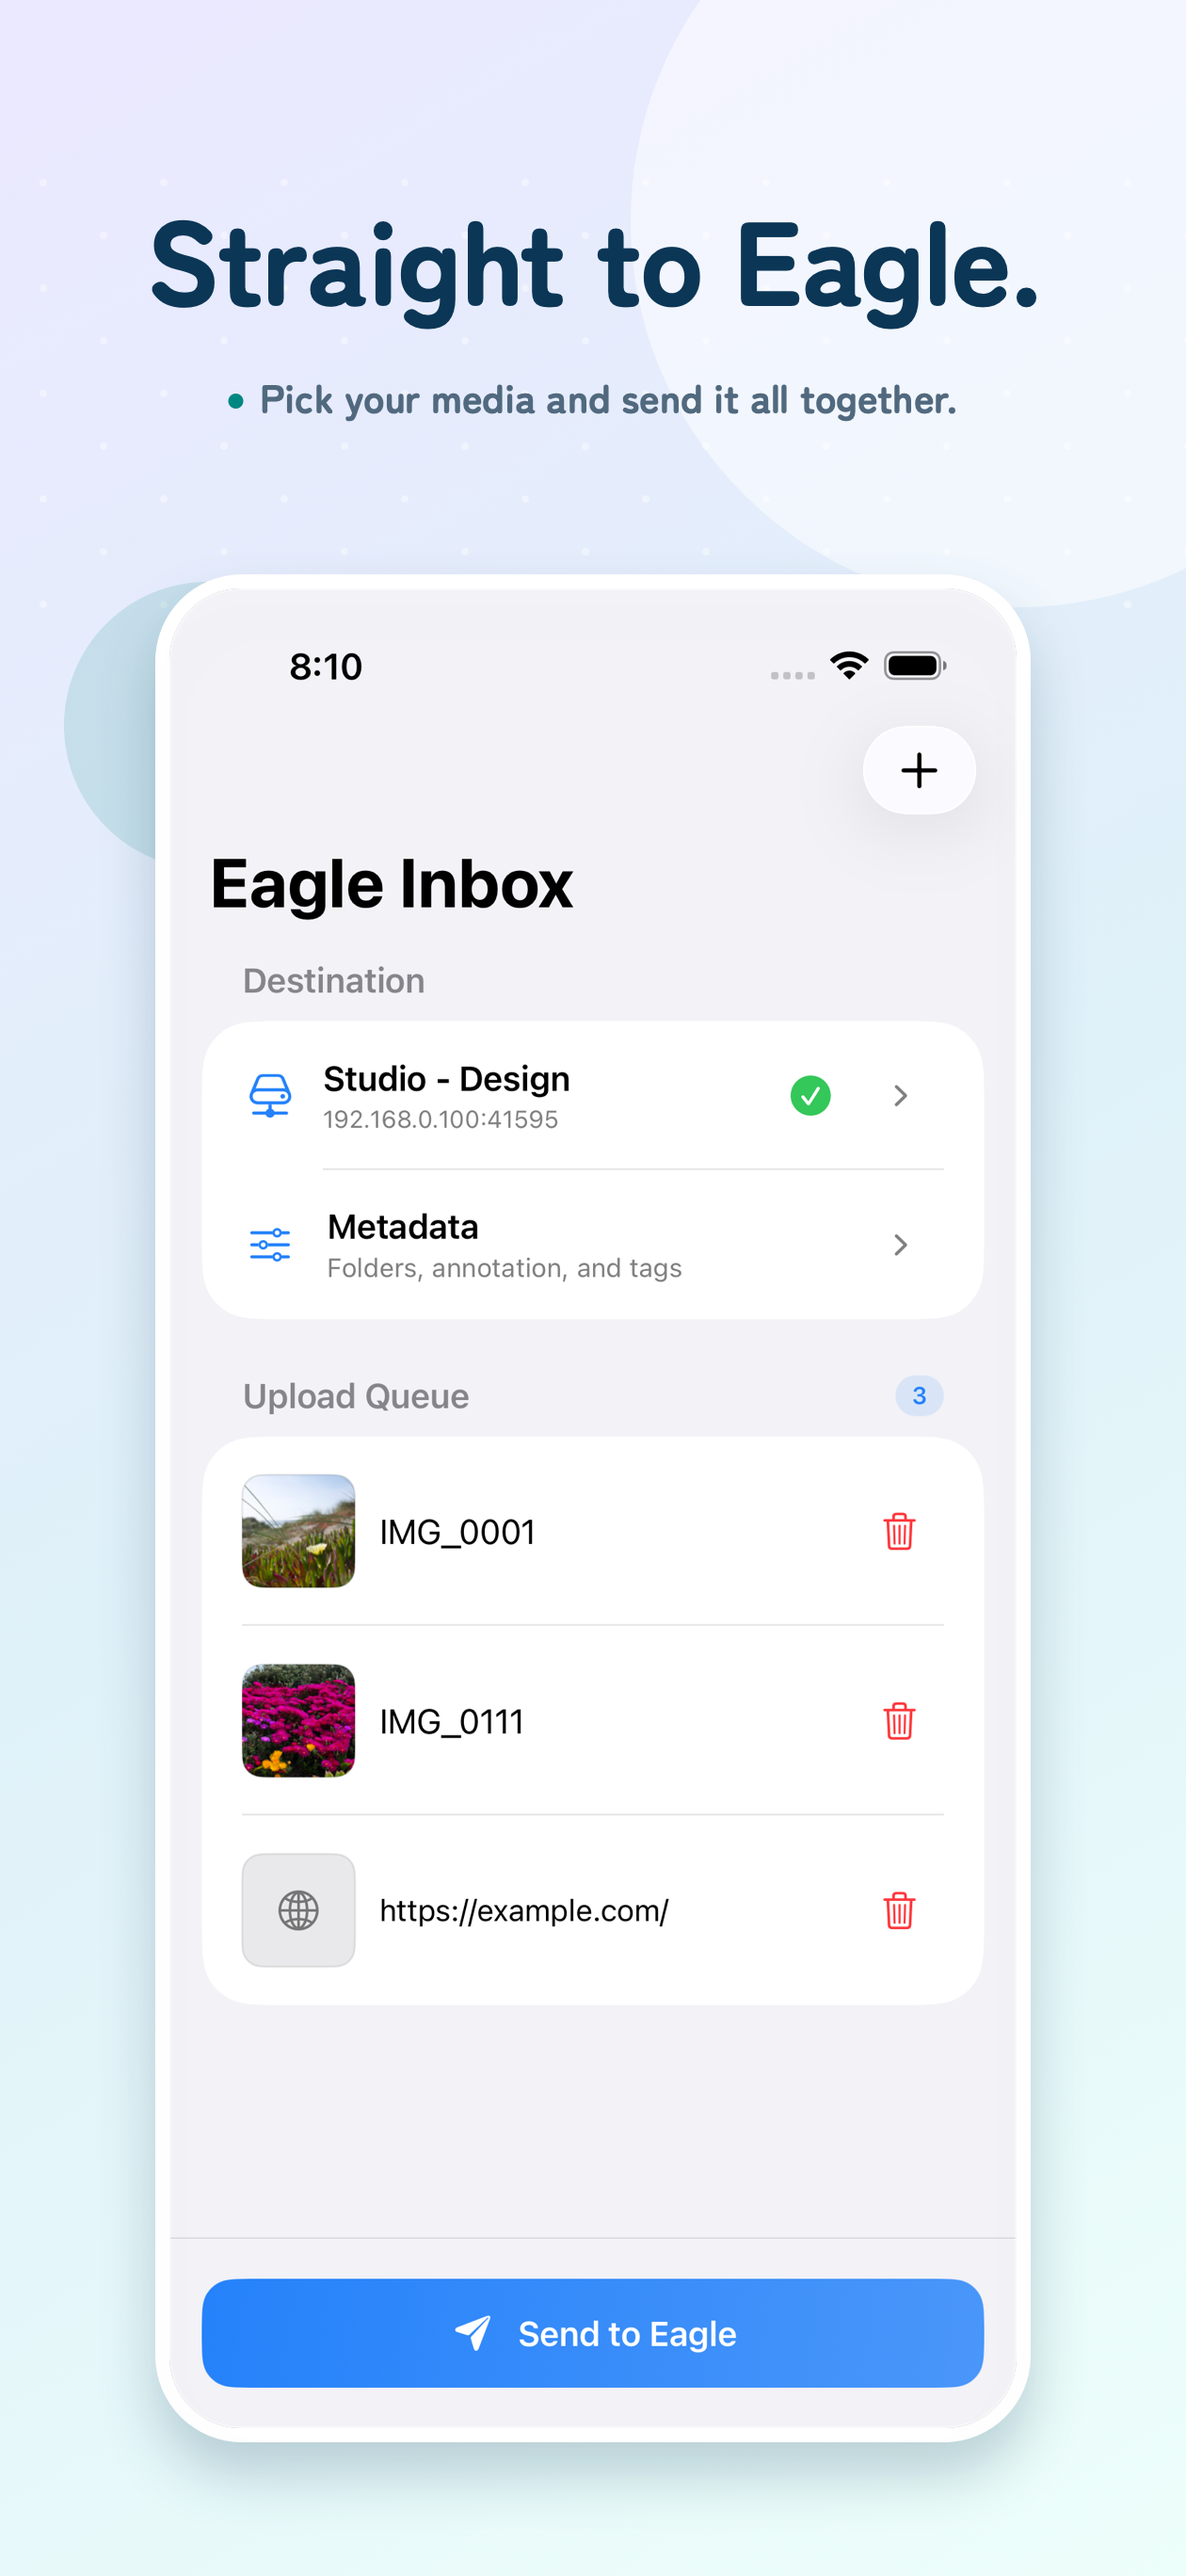
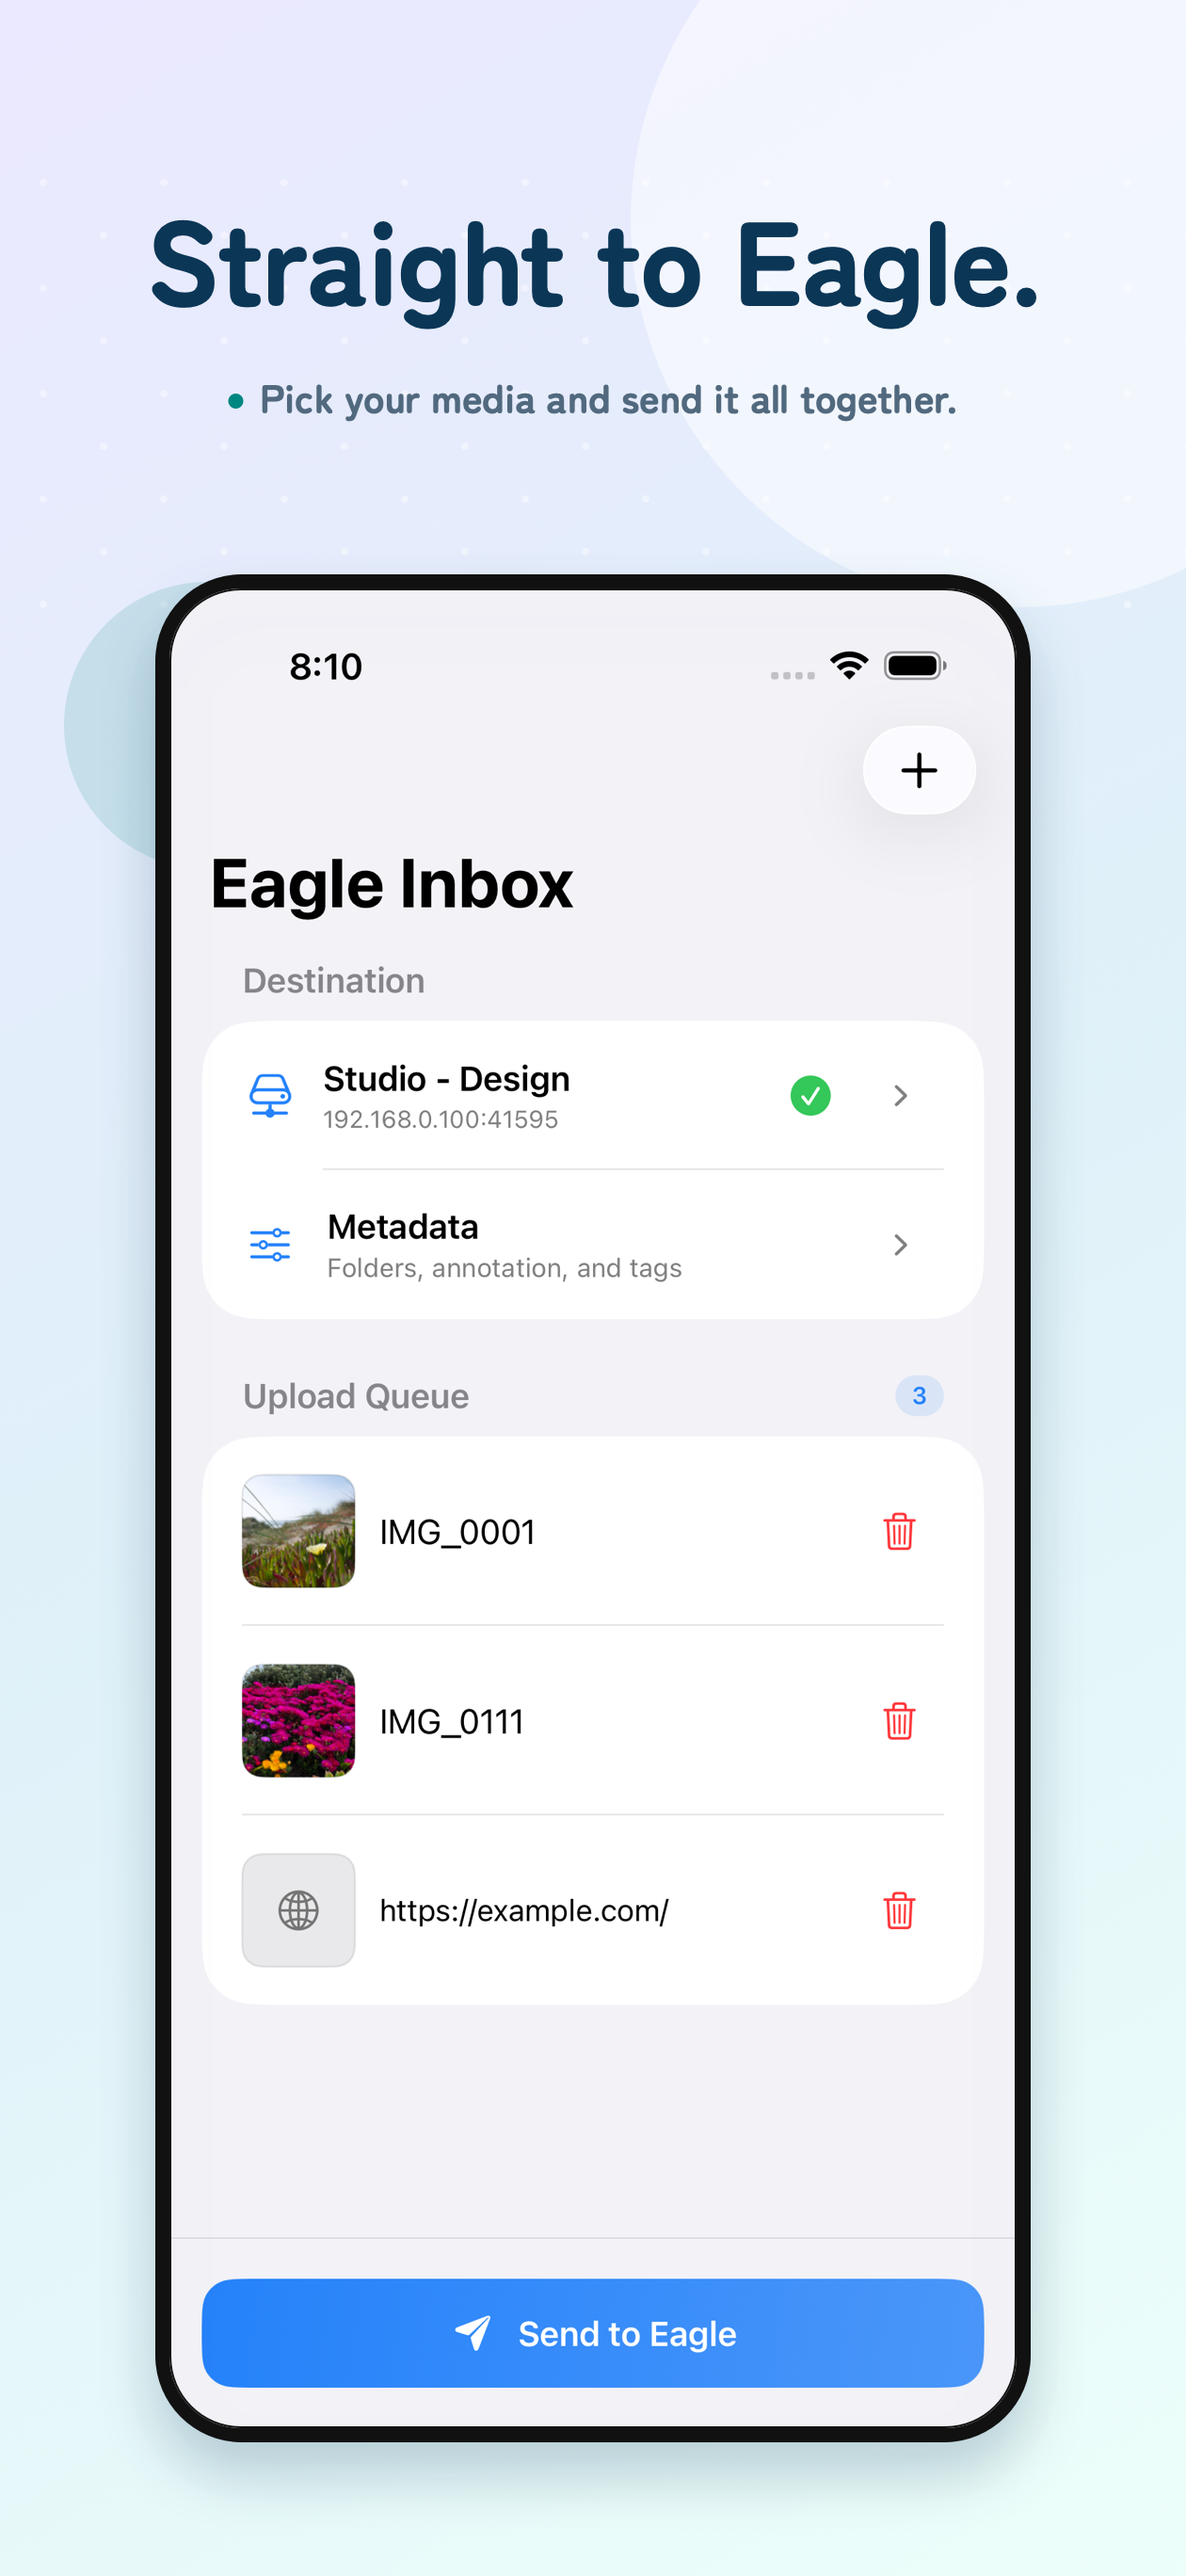
feat: update screenshot card frame color for improved visibility

Changed region(s): [[0.1238, 0.2175, 0.8667, 0.9631]]

diff --git a/Docs/AppStore/Source/render.swift b/Docs/AppStore/Source/render.swift
@@ -130,7 +130,11 @@ private func drawScreenshotCard(
     shadow.shadowBlurRadius = shadowBlur
     shadow.shadowOffset = NSSize(width: 0, height: shadowOffset)
     shadow.set()
-    NSColor.white.setFill()
+    let frameColor = NSColor(
+        deviceWhite: CGFloat(0x11) / 255,
+        alpha: 1
+    )
+    frameColor.setFill()
     roundedPath(outerRect, radius: outerRadius).fill()
 
     NSGraphicsContext.saveGraphicsState()
@@ -149,7 +153,7 @@ private func drawScreenshotCard(
     drawImage(screenshot, in: innerRect)
     NSGraphicsContext.restoreGraphicsState()
 
-    NSColor.white.withAlphaComponent(0.44).setStroke()
+    frameColor.setStroke()
     let innerBorder = roundedPath(innerRect.insetBy(dx: 1, dy: 1), radius: outerRadius - 17)
     innerBorder.lineWidth = 2
     innerBorder.stroke()
